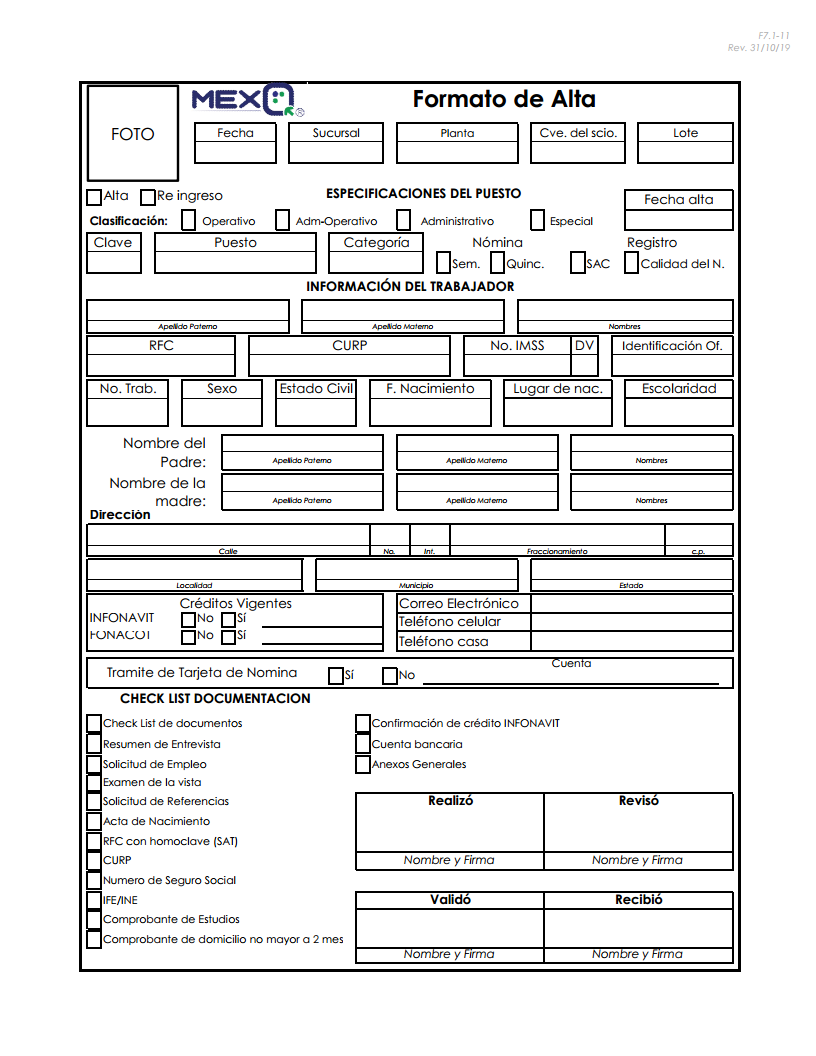
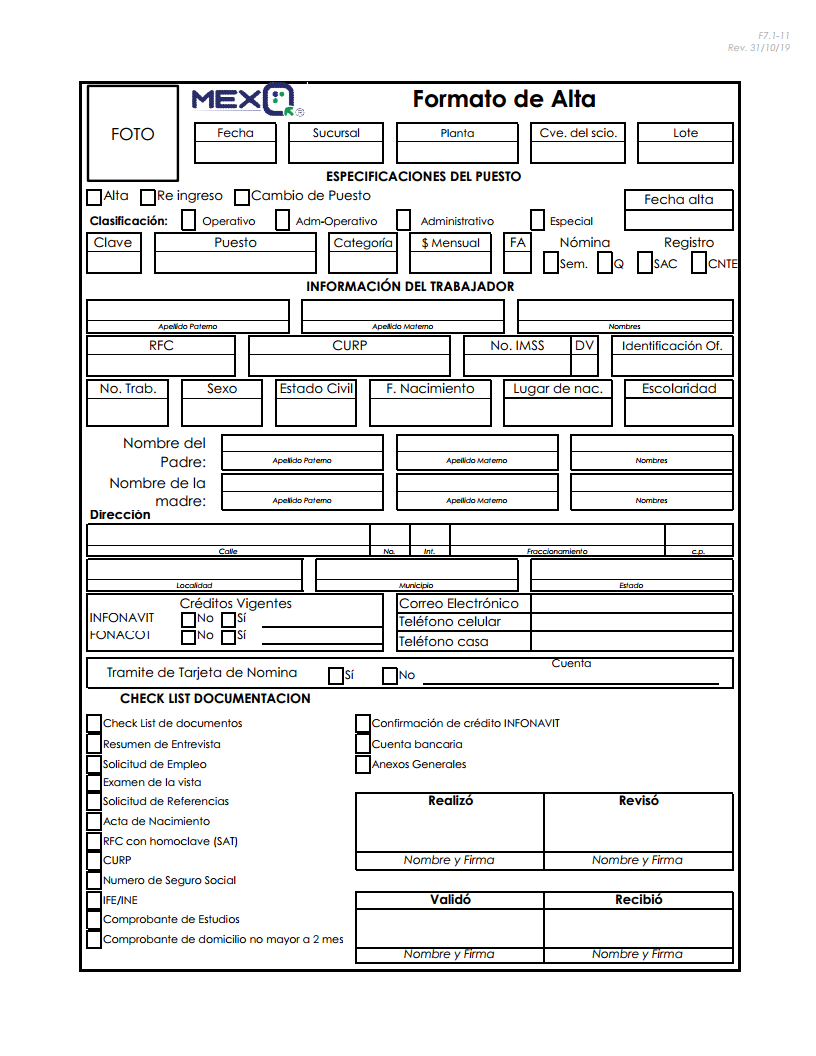
DEV230920
- Formato de alta actualizado.

Changed region(s): [[0.3983, 0.2188, 0.8885, 0.2812], [0.337, 0.1562, 0.6434, 0.1875]]

diff --git a/js/formato.js b/js/formato.js
@@ -1,5 +1,5 @@
 //IMPORTAR URL DEL BACKEND
-let backendURL = 'http://187.188.159.205:8090/web_serv/empService/controller.php';
+let backendURL = 'http://187.188.159.205:8090/web_serv/empService/controller_.php';
 //VARIABLE QUE GUARADARA LOS PARAMETROS DE LA URL
 let searchParams = new URLSearchParams(window.location.search);
 let check = searchParams.has('emp'); // SI ALGUN PARAMETRO ES IGUAL A emp LA VARIABLE SERA true
@@ -17,7 +17,8 @@ if (check) {
         let informacionCantidad = respuesta.informacion.length;
         if(informacionCantidad > 0){
             let informacion = respuesta.informacion[0];
-            let empStatus = informacion.status
+            let empStatus = informacion.status,
+                empCambioPuesto = informacion.cambio_puesto,
                 empClasificacion = informacion.clasificacion,
                 tipoNominaEmpleado = informacion.nomina,
                 registroPatronal = informacion.registro_patronal,
@@ -95,10 +96,16 @@ if (check) {
             else
                 $('#empGenero').html('Masculino');
 
-            if (empStatus === 'A')
-                $('#empTipo').css('left','90');
-            else
-                $('#empTipo').css('left','145');
+            if(empCambioPuesto === 1)
+            {
+                $('#empTipo').css('left','240');
+            } else {
+                if (empStatus === 'A')
+                    $('#empTipo').css('left','90');
+                else
+                    $('#empTipo').css('left','145');
+            }
+            
             
             if (empClasificacion === 'O')
                 $('#formatoTipo').css('left','185');
@@ -110,14 +117,14 @@ if (check) {
                 $('#formatoTipo').css('left','535');
 
             if (tipoNominaEmpleado === 'S')
-                $('#tipoNomina').css('left','440');
+                $('#tipoNomina').css('left','548');
             else
-                $('#tipoNomina').css('left','495');
+                $('#tipoNomina').css('left','642');
 
             if (registroPatronal === 'SAC')
-                $('#empRegistro').css('left','575');
+                $('#empRegistro').css('left','640');
             else
-                $('#empRegistro').css('left','630');
+                $('#empRegistro').css('left','698');
             
             if (empEstadoCivil === 'S')
                 $('#empCivil').html('Soltero(a)');

diff --git a/js/control.js b/js/control.js
@@ -8,7 +8,7 @@ $(document).ready(function () {
     let seccionEnvioAltas = $('.seccionEnvioAltas');
     let seccionAcuseAltas = $('.seccionAcuseAltas');
     let seccionExportar = $('.seccionExportar');
-    let backendURL = 'http://187.188.159.205:8090/web_serv/empService/controller.php';
+    let backendURL = 'http://187.188.159.205:8090/web_serv/empService/controller_.php';
     let localBackend = 'inc/model/';
     let senderLocal = 'inc/model/sender.php';
     let url_final = 'http://mexq.mx/';

diff --git a/css/formato.css b/css/formato.css
@@ -127,7 +127,7 @@ p{
 
 #empCategoria{
     top: 238; 
-    left: 355; 
+    left: 335; 
     font-size: 90%;
     font-weight: bold;
 }

diff --git a/inc/templates/sidebar.php b/inc/templates/sidebar.php
@@ -59,7 +59,7 @@
             <a class="collapse-item" href="index.php?request=ci"><i class="fas fa-align-justify"></i> CI</a>
             <a class="collapse-item" href="index.php?request=seguimiento"><i class="fas fa-user-tag"></i> Seguimiento</a>
             <a class="collapse-item" href="index.php?request=historial-empleados"><i class="fas fa-user-clock"></i> Historial de empleado</a>
-            <!-- <a class="collapse-item" href="index.php?request=encuesta_salida">Encuestas de salida</a> -->
+            <a class="collapse-item" href="index.php?request=encuesta_salida"><i class="fas fa-tasks"></i> Encuestas de salida</a>
             <hr class="sidebar-divider">
             <h6 class="collapse-header">Administrar registros:</h6>
             <a class="collapse-item" href="index.php?request=alta-empleado"><i class="fas fa-user-plus"></i> Alta de empleado</a>
@@ -71,7 +71,7 @@
             <a class="collapse-item" href="index.php?request=administrarBajas"><i class="fas fa-user-times"></i> Administrar Bajas</a>
             <h6 class="collapse-header laborales_supervisor d-none">Administrar</h6>
             <a class="collapse-item laborales_supervisor d-none" href="index.php?request=gestionar-codigos"><i class="fas fa-dice"></i> Clasificacion de Bajas</a>
-            <!-- <a class="collapse-item" href="index.php?request=gestionar-tabuladores">Tabuladores</a> -->
+            <a class="collapse-item" href="index.php?request=gestionar-tabuladores"><i class="fas fa-poll-h"></i> Tabuladores</a>
           </div>
         </div>
       </li>
